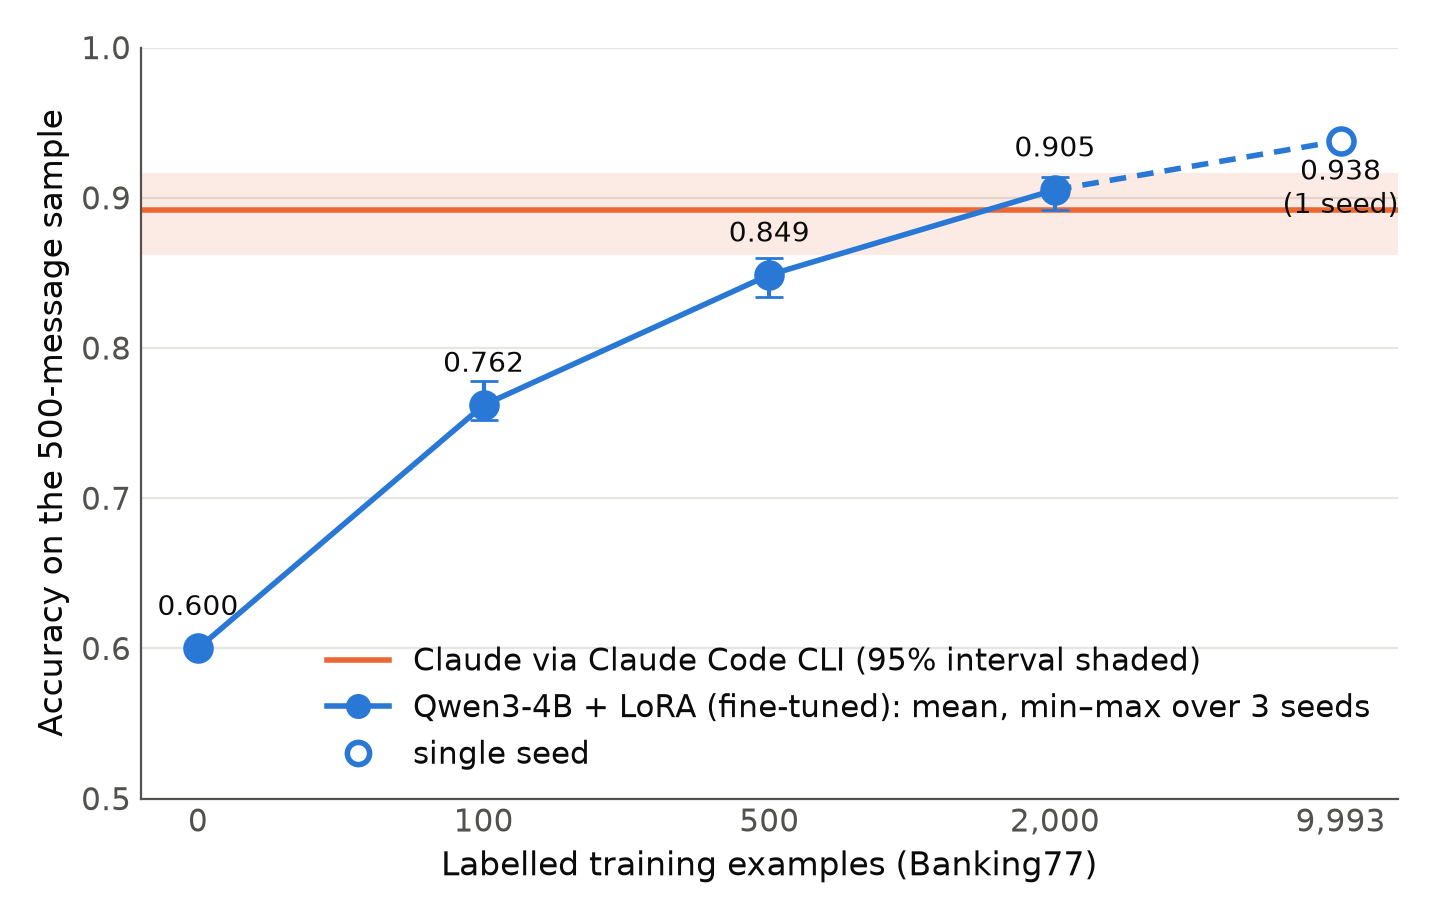
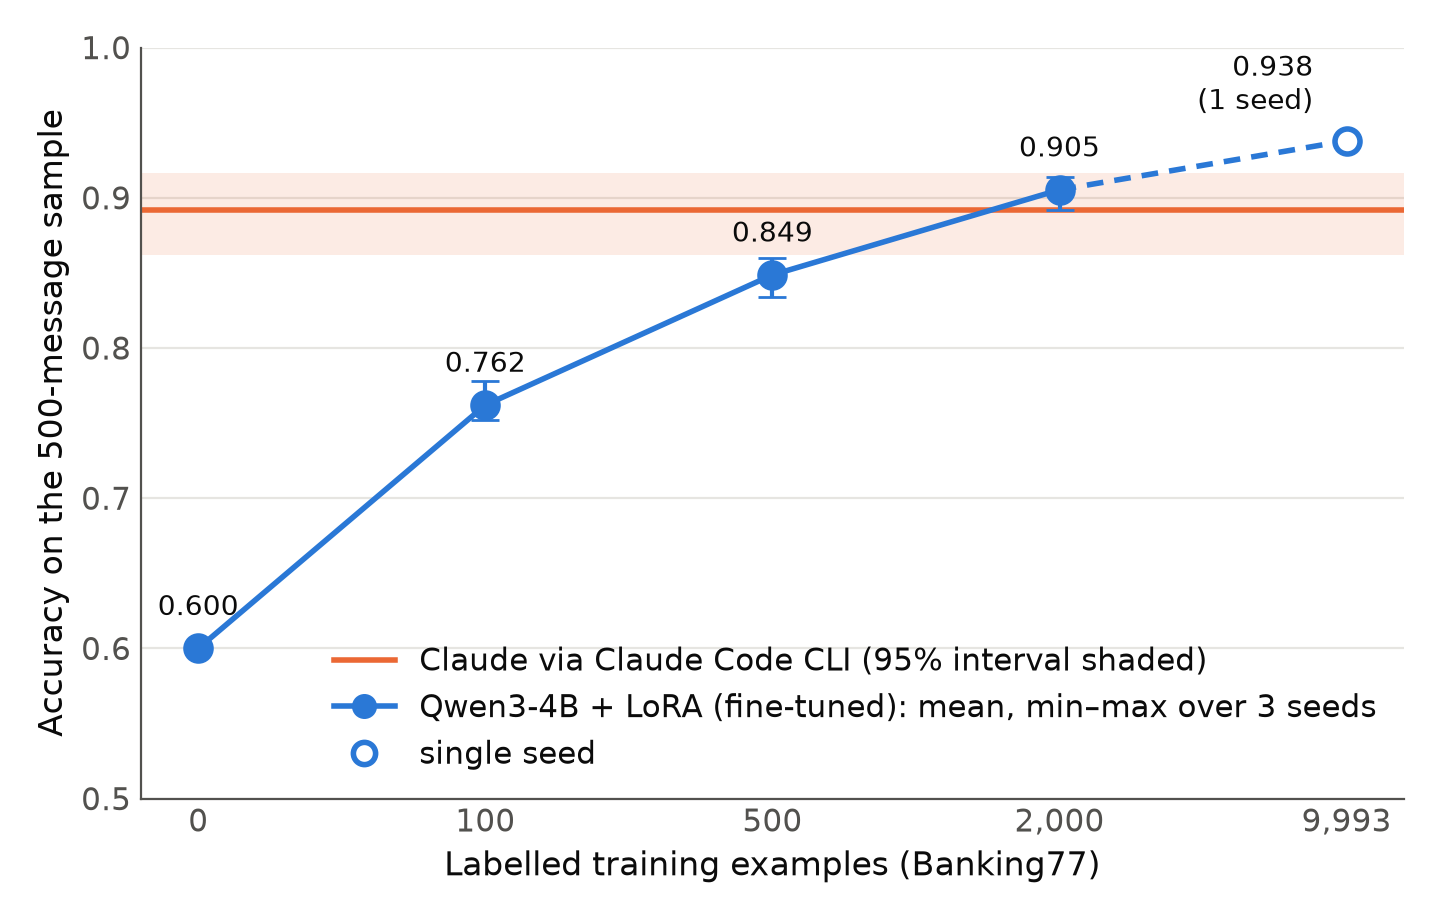
Label-efficiency chart: move the single-seed label clear of the Claude line

diff --git a/make_figures.py b/make_figures.py
@@ -104,8 +104,10 @@ def main():
         ax.plot(x, m, "o", ms=9, zorder=4, color=SMALL if not single else "white",
                 markeredgecolor=SMALL, markeredgewidth=2)
         lab = f"{m:.3f}" + ("\n(1 seed)" if single else "")
-        ax.annotate(lab, (x, m), textcoords="offset points", xytext=(0, -26 if single else 12),
-                    ha="center", fontsize=10, color=INK)
+        # single-seed label goes above-left of its marker, clear of Claude's line and band
+        ax.annotate(lab, (x, m), textcoords="offset points", xytext=(-12, 8) if single else (0, 12),
+                    ha="right" if single else "center", va="bottom" if single else "baseline",
+                    fontsize=10, color=INK)
     if pts and pts[-1][1] == 9993 and len(pts[-1][2]) == 1:
         ax.plot([pts[-2][0], pts[-1][0]], [summary(pts[-2][2])[0], pts[-1][2][0]], color=SMALL, lw=2,
                 ls=(0, (3, 2)), zorder=3)
